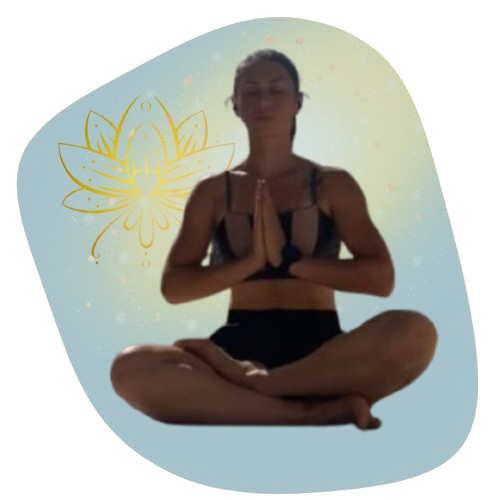
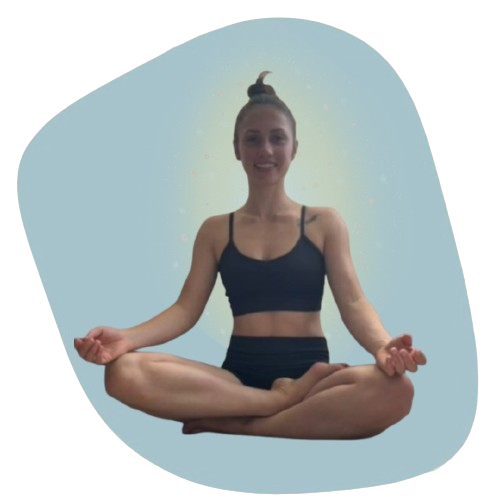
commit ajustes pagina inicial, pagina instrutor movida para inicial, ajustes de cores e imagem instrutor

diff --git a/css/style.css b/css/style.css
@@ -10,7 +10,7 @@
 }
 
 body {
-  font-family: Arial, sans-serif;
+  font-family: 'Quicksand', Arial, sans-serif;
   line-height: 1.6;
   background: hsl(0, 0%, 100%);
   color: #333;
@@ -29,7 +29,7 @@ body {
   width: 100%;
   position: fixed;
   top: 0;
-  background-color: #fcfcc2;
+  background-color: #ffffd8;
   z-index: 1000;
   box-shadow: 0 2px 4px rgba(0, 0, 0, 0.1);
 }
@@ -142,7 +142,7 @@ body {
   top: 120px; /*margem de onde o menu aparece quando visisvel*/
   left: 0;
   width: 100%;
-  background-color: #fffde7;
+  background-color: #ffffd8;
   box-shadow: 0 2px 5px rgba(0,0,0,0.2);
   transition: height 0.3s ease;
   z-index: 1001;
@@ -204,7 +204,7 @@ body {
     left: 0;
     right: 0;
     transform: translateY(-100%); /* Esconde o menu inicialmente */
-    background-color: #fffde7;
+    background-color: #ffffd8;
     box-shadow: 0 2px 5px rgba(0, 0, 0, 0.2);
     transition: transform 0.3s ease;
     z-index: 1001;
@@ -230,7 +230,7 @@ section {
 
 h2 {
   font-size: 2rem;
-  font-family: "Quicksand", Helvetica,  sans-serif;
+  font-family: 'Quicksand', Arial, sans-serif;
   font-weight: 600;
   font-style: italic;
   margin: 30px 0 15px 15px;
@@ -242,7 +242,7 @@ h2 {
     display: flex;
     align-items: center;
     justify-content: center;
-    background-color: #fdfdda;
+    background-color: #ffffd8;
     padding-top: 200px; /*maior espaçametno superior para cobrir demais ajustes*/
 }
 
@@ -319,9 +319,11 @@ h2 {
   flex-wrap:wrap;
   align-items:center;
   justify-content:space-around;
+  margin-bottom: 5rem;
 }
 
 .sobre-text {
+  margin-top: -10rem;
   flex: 1;
   max-width: 600px;
   text-align: justify;
@@ -331,7 +333,7 @@ h2 {
 
 .sobre-img {
   flex: 1;
-  max-width: 600px;
+  max-width: 400px;
 }
 
 .sobre-img img {
@@ -354,6 +356,69 @@ h2 {
   }
 
 }
+
+/*estilização instrutor*/
+.instrutor {
+  display: flex;
+  flex-wrap:wrap;
+  align-items:center;
+  justify-content:space-around;
+  gap: 2em;
+  padding: 2em 2em;
+  background-color: #fdfdda;
+}
+
+.instrutor-text {
+  flex: 1;
+  max-width: 50em;
+  text-align: justify;
+}
+
+.instrutor-text h3 {
+  font-size: 1.2rem;
+  margin-bottom: 1.5em;
+  color: #393939;
+  font-weight: 600;
+  text-align: center;
+}
+
+.instrutor-img {
+  flex: 1;
+  max-width: 25em;
+}
+
+.instrutor-img img {
+  width: 100%;
+  height: auto;
+  filter: drop-shadow (0.2em 0.2em 0.2em #111)
+}
+
+.prof-img img {
+width: 16em;
+padding: 1em;
+object-fit: cover;
+border-radius: 20%;
+}
+
+.instrutor {
+  text-align: center;
+}
+
+
+@media (max-width: 768px) { /* Ajustes para telas menores */
+  .instrutor {
+    flex-direction: column-reverse;
+    text-align: center;
+  }
+
+  .intrutor-text,
+  .prof-img {
+    max-width: 100%;
+    padding: 1em;
+  }
+}
+
+/*FIM ESTILIZAÇÃO INSTRUTOR*/
 
 /*estilização gallery*/ 
 
@@ -426,7 +491,7 @@ h2 {
   display: flex;
   align-items: center;
   gap: 20px;
-  background-color: #fdfdda;
+  background-color: #ffffd8;
   padding: 20px;
   border-radius: 12px;
   box-shadow: 0 4px 12px rgba(0,0,0,0.05);
@@ -477,7 +542,7 @@ h2 {
 .redes h3 {
   font-size: 1.2rem;
   margin-bottom: 1.5em;
-  color: #efa51c;
+  color: #393939;
   font-weight: 600;
 }
 
@@ -522,7 +587,7 @@ h2 {
 }
 
 
-  /*rodapé*/
+/*rodapé*/
 footer {
     text-align: center;
     margin-top: 1em;
@@ -546,7 +611,7 @@ footer {
   font-size: 1.2rem;
   font-weight: bold;
   background-color: #ffc579;
-  color: #5a2600;
+  color: #393939;
   border: none;
   border-radius: 25px;
   cursor: pointer;
@@ -562,7 +627,7 @@ footer {
   font-size: 1.2rem;
   font-weight: bold;
   background-color: #ffc579;
-  color: #5a2600;
+  color: #393939;
   border: none;
   border-radius: 25px;
   cursor: pointer;
@@ -588,7 +653,7 @@ footer {
   padding: 10px 20px;
   border-radius: 8px;
   box-shadow: 0 0 10px rgba(0,0,0,0.1);
-  font-family: 'Quicksand', sans-serif;
+  font-family: 'Quicksand', Arial, sans-serif;
   font-weight: 600;
   font-size: 1rem;
   text-align: center;

diff --git a/index.html b/index.html
@@ -37,7 +37,7 @@
     <!-- Botão Explorar -->
     <div id="sideMenu" class="menu-lateral">
       <ul class="menu-lateral-itens">
-        <li><a id="instrutor" href="/pag-instrutor/instrutor.html">Instrutor</a></li>
+        <li><a id="instructor" href="/index.html#instrutor">Instrutor</a></li>
         <li><a id="galeria" href="/index.html#depoimentos">Depoimentos</a></li>
         <li><a id = "blog" href="#blog">Blog</a></li>
         <li><a id= "videoaulas" href="#videoaulas">Videoaulas</a></li>
@@ -60,7 +60,7 @@
       
         <section id = "sobre" class="sobre">
           <div class = "sobre-text">
-            <h2>Sobre</h2>
+            <h2>Hatha e Vinyasa Yoga</h2>
             <p>Hatha Yoga é a união entre corpo, mente e respiração.</p>
             <p>Uma prática que fortalece, alonga e acalma — tudo ao mesmo tempo. Através de posturas (<em>ásanas</em>), técnicas de respiração (<em>pránáyáma</em>) e momentos de silêncio, ela convida você a desacelerar e se reconectar com o que realmente importa: você mesmo(a).
               É a base sólida para quem quer começar no yoga e um caminho profundo para quem deseja ir além.</p>
@@ -70,6 +70,23 @@
             <img src="/img/sobre.png" alt="sobre yoga" />
           </div>
         </section>            
+
+        <section id= "instrutor" class="instrutor">
+            <div class="instrutor-text">
+              <h2>Instrutora</h2>
+
+              <h3>Muito prazer, sou a Aline: praticante e professora de hatha vinyasa yoga </h3>
+              
+              <p> A Yoga chegou até mim em um momento turbulento da vida e, desde então, se tornou meu ponto de equilíbrio. </p>
+              <p>Foram mais de mil práticas ao longo dos últimos anos — entre respirações conscientes, força, entrega e pequenas grandes transformações. </p>
+              <p>Com o tempo, o que era refúgio virou caminho. A prática se expandiu dentro de mim e, naturalmente, comecei a guiá-la para outras pessoas. Encontrei propósito em compartilhar o que vivi: o poder da Yoga para transformar rotinas reais — aquelas cheias de prazos, cansaço e incertezas. </p>
+              <p>Hoje, dedico-me a criar espaços de prática acolhedores, onde você possa se reconectar com o corpo, com a respiração e com o agora. Sem pressa. Sem perfeição. Com presença. </p>
+            </div>
+            <div class="instrutor-img">
+              <img src="/img/intrutor-aline.png" alt="instrutor yoga" />
+            </div>
+         <!-- <a href="/pag-planos/planos.html" class="botaoPlano">Quero saber mais!</a> -->
+        </section>
       
         <section id="galeria" class="gallery">
           <div class="gallery-item">
@@ -83,8 +100,9 @@
             <div class="gallery-img"> <img src="img/galeria4.jpg" alt="Pratica" /></div>
             <div class="gallery-img"> <img src="img/galeria5.jpg" alt="Pratica" /></div>
           </div>
+          <br></br>
         </section>
-
+        
         <section id="depoimentos" class="depoimentos">
           <h2>Depoimentos</h2>
           <div class="depoimentos-item">

diff --git a/pag-contato/contato.html b/pag-contato/contato.html
@@ -37,7 +37,7 @@
     <!-- Botão Explorar -->
     <div id="sideMenu" class="menu-lateral">
       <ul class="menu-lateral-itens">
-        <li><a id="instrutor" href="/pag-instrutor/instrutor.html">Instrutor</a></li>
+        <li><a id="instructor" href="/index.html#instrutor">Instrutor</a></li>
         <li><a id="galeria" href="/index.html#depoimentos">Depoimentos</a></li>
         <li><a id = "blog" href="#blog">Blog</a></li>
         <li><a id= "videoaulas" href="#videoaulas">Videoaulas</a></li>
@@ -51,7 +51,6 @@
         </div>
         <div id="contato" class="contact">
           <div class="textocontato">
-            <p>Estou pronto(a) para um novo momento!</p>
             <a href="https://wa.me/5551995538733?text=%E2%9C%A8%20Ol%C3%A1,%20%0AGostaria%20de%20agendar%20uma%20pr%C3%A1tica%20de%20Hatha%20Yoga%20%F0%9F%A7%98%E2%80%8D%E2%99%80%EF%B8%8F%20%F0%9F%A4%B8%F0%9F%8F%BC%E2%80%8D%E2%99%80%EF%B8%8F%0ATenho%20disponibilidade%20nos%20seguintes%20dias/%20hor%C3%A1rios:" target="_blank" class="btn-whatsapp">
                 <svg xmlns="http://www.w3.org/2000/svg" class="icon" viewBox="0 0 32 32" width="20" height="20" fill="white">
                      <path d="M16.004 2.002C8.822 2.002 2.94 7.896 2.94 15.094c0 2.656.716 5.15 2.024 7.352L2.03 30l7.705-2.02c2.15 1.18 4.6 1.85 7.27 1.85 7.18 0 13.062-5.892 13.062-13.09S23.183 2.002 16.004 2.002zm0 2.276c6.003 0 10.78 4.79 10.78 10.816 0 6.026-4.777 10.815-10.78 10.815-2.23 0-4.29-.688-5.992-1.856l-.422-.276-4.564 1.198 1.207-4.498-.275-.444a10.741 10.741 0 01-1.677-5.94c0-6.026 4.777-10.815 10.78-10.815zM10.86 9.49c-.27-.606-.55-.62-.802-.63-.207-.01-.442-.01-.677-.01-.235 0-.617.088-.94.44-.322.352-1.234 1.207-1.234 2.945 0 1.737 1.265 3.417 1.44 3.653.176.236 2.435 3.897 6.013 5.306 2.974 1.17 3.56.936 4.202.88.64-.06 2.094-.854 2.39-1.678.294-.824.294-1.532.206-1.677-.09-.146-.33-.236-.693-.412-.362-.177-2.14-1.053-2.47-1.172-.33-.118-.572-.177-.812.177-.24.353-.93 1.173-1.14 1.415-.207.236-.422.265-.784.09-.36-.177-1.52-.562-2.9-1.79-1.07-.955-1.79-2.133-2-2.49-.21-.354-.022-.547.157-.724.162-.16.36-.412.54-.618.18-.206.24-.353.36-.588.12-.236.06-.442-.03-.617-.09-.176-.792-1.953-1.113-2.66z"/>

diff --git a/pag-planos/planos.html b/pag-planos/planos.html
@@ -38,7 +38,7 @@
     <!-- Botão Explorar -->
     <div id="sideMenu" class="menu-lateral">
       <ul class="menu-lateral-itens">
-        <li><a id="instrutor" href="/pag-instrutor/instrutor.html">Instrutor</a></li>
+        <li><a id="instructor" href="/index.html#instrutor">Instrutor</a></li>
         <li><a id="galeria" href="/index.html#depoimentos">Depoimentos</a></li>
         <li><a id = "blog" href="#blog">Blog</a></li>
         <li><a id= "videoaulas" href="#videoaulas">Videoaulas</a></li>
@@ -58,18 +58,18 @@
               <p> 🖥 R$ 60,00 por aula </p></li>
             <li>
               <p class="nomePlano">Plano Mensal (Online - Individual)</p>
-              <p> 🖥 1 aula por semana - R$ 200,00/mês</p></li>
+              <p> 🖥 1 aula por semana - R$ 250,00/mês</p></li>
             <li>
               <p class="nomePlano">Plano Mensal (Presencial - Individual)</p>
-              <p> 🏠 1 aula por semana - a partir de R$ 230,00/mês</p></li>
+              <p> 🏠 1 aula por semana - a partir de R$ 250,00/mês</p></li>
             <li>
-              <p class="nomePlano">Plano Mensal  (Presencial - Grupo até 10 pessoas)</p>
+              <p class="nomePlano">Plano Mensal  (Presencial - Grupo de até 10 pessoas)</p>
               <p> 🏠 1 aula por semana - a partir de R$ 200,00/mês</p></li>
           </ul>
           <p id="reduzirTamanhoTexto">*Aulas em grupo: plano por aluno</p>
           <p id="reduzirTamanhoTexto">*Aulas presenciais: confirme disponibilidade (Nova Lima e Belo Horizonte/MG)</p>
         
-          <p>As aulas ao vivo tem duração de 50 minutos </p>
+          <p>As aulas tem duração de 50 minutos </p>
           <!-- e você ganha videoaulas gravadas para fazer sua prática nos outros dias!</p> -->
           
           <a href="/pag-contato/contato.html" class="botaoContato">Quero me inscrever!</a>

diff --git a/pag-contato/style-contato.css b/pag-contato/style-contato.css
@@ -39,7 +39,7 @@ input, textarea {
 }
 
 .textoform {
-  font-family:  'Quicksand', sans-serif;
+  font-family:  'Quicksand', Arial, sans-serif;
   text-align: center;
 }
 
@@ -50,11 +50,11 @@ input, textarea {
   display: block;
   margin: 0 auto;
 
-  font-family:  'Quicksand', sans-serif;
+  font-family: 'Quicksand', Arial, sans-serif;
   text-align: center;
   font-size: 1.5rem;
   font-weight: bold;
-  background-color: #dbe6a8;
+  background-color: #f5b85a;
   color: #5a2600;
   border: none;
   border-radius: 2em;
@@ -62,7 +62,7 @@ input, textarea {
 }
 
 .botaoenviar:hover {
-  background-color: #f5b85a;
+  background-color: #dbe6a8;
   transform: scale(1.05);
 }
   /*FIM FORMULARIO DE ENVIO DE EMAIL - AJUSTAR FUTURAMENTE*/
